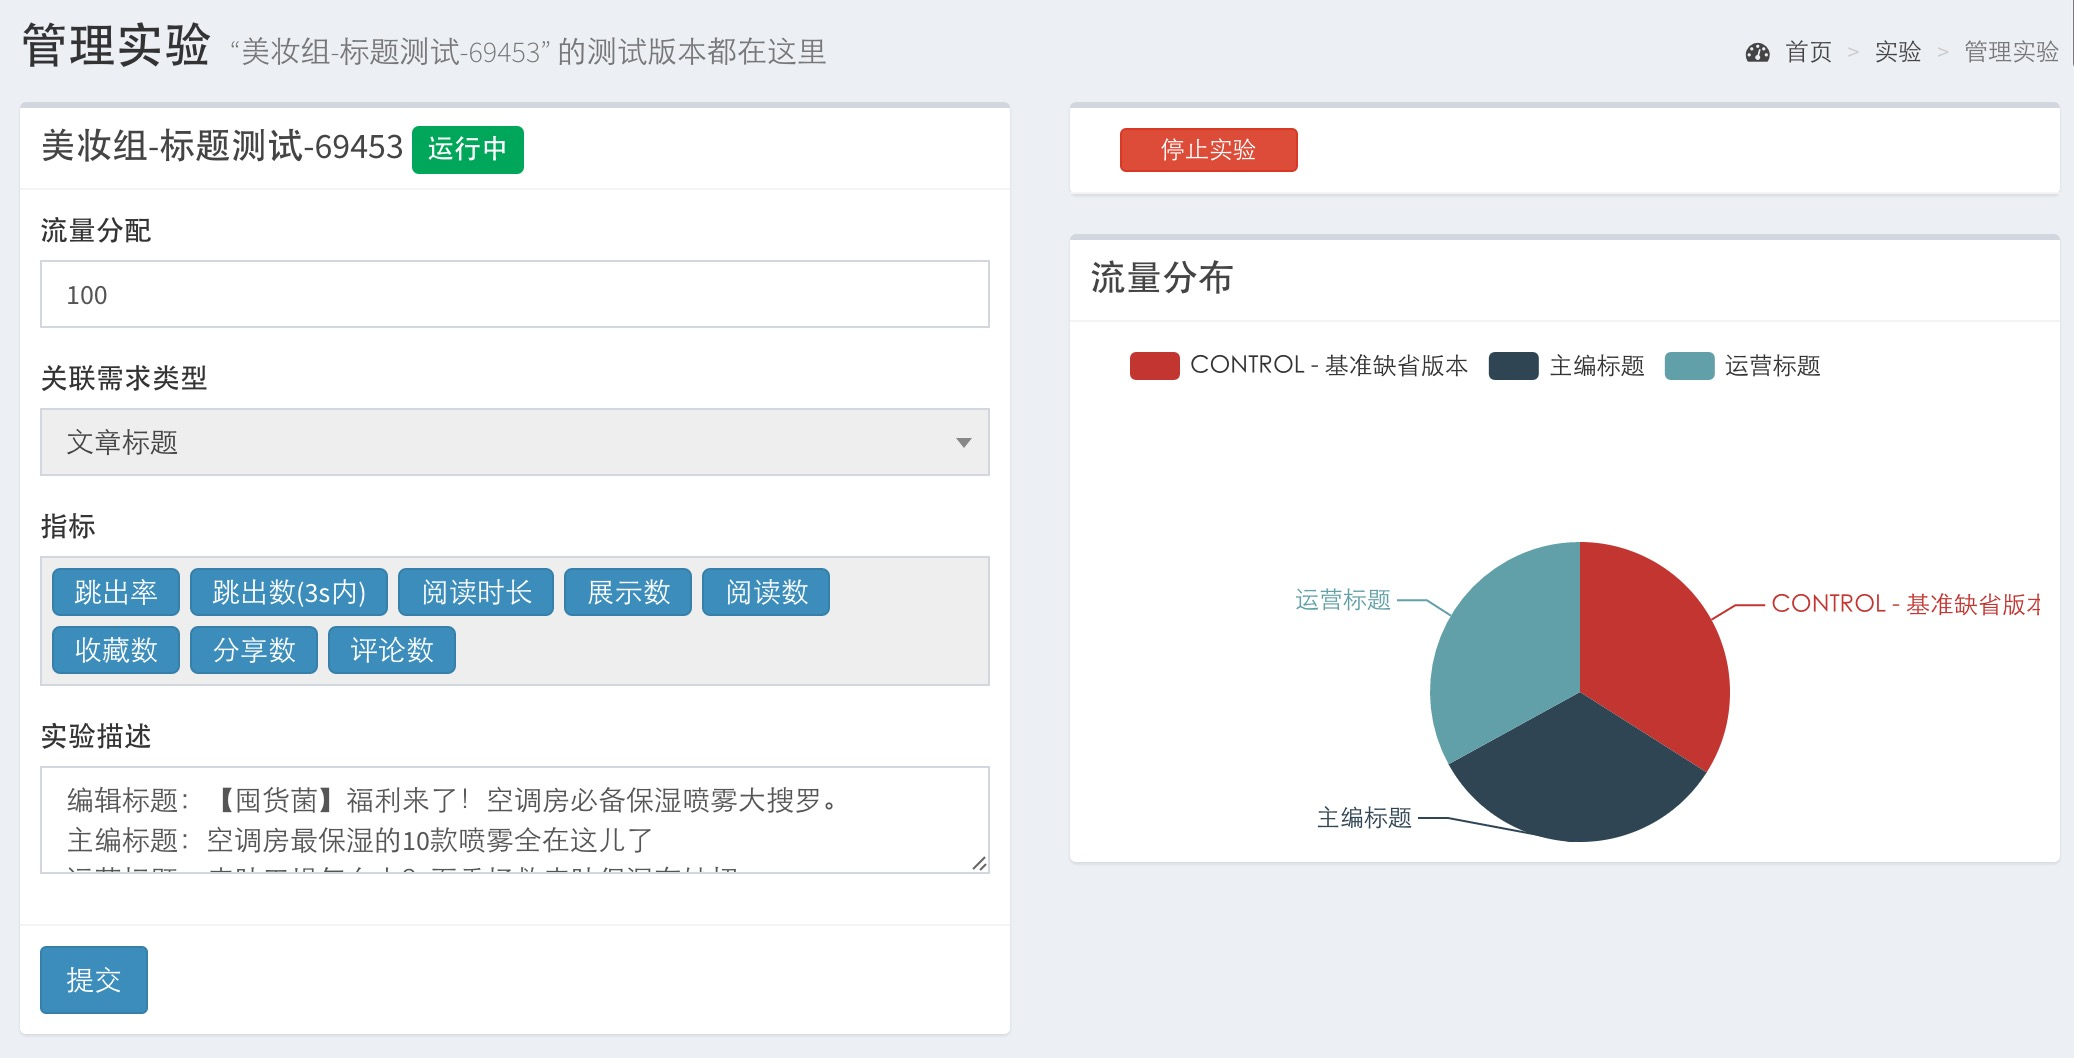
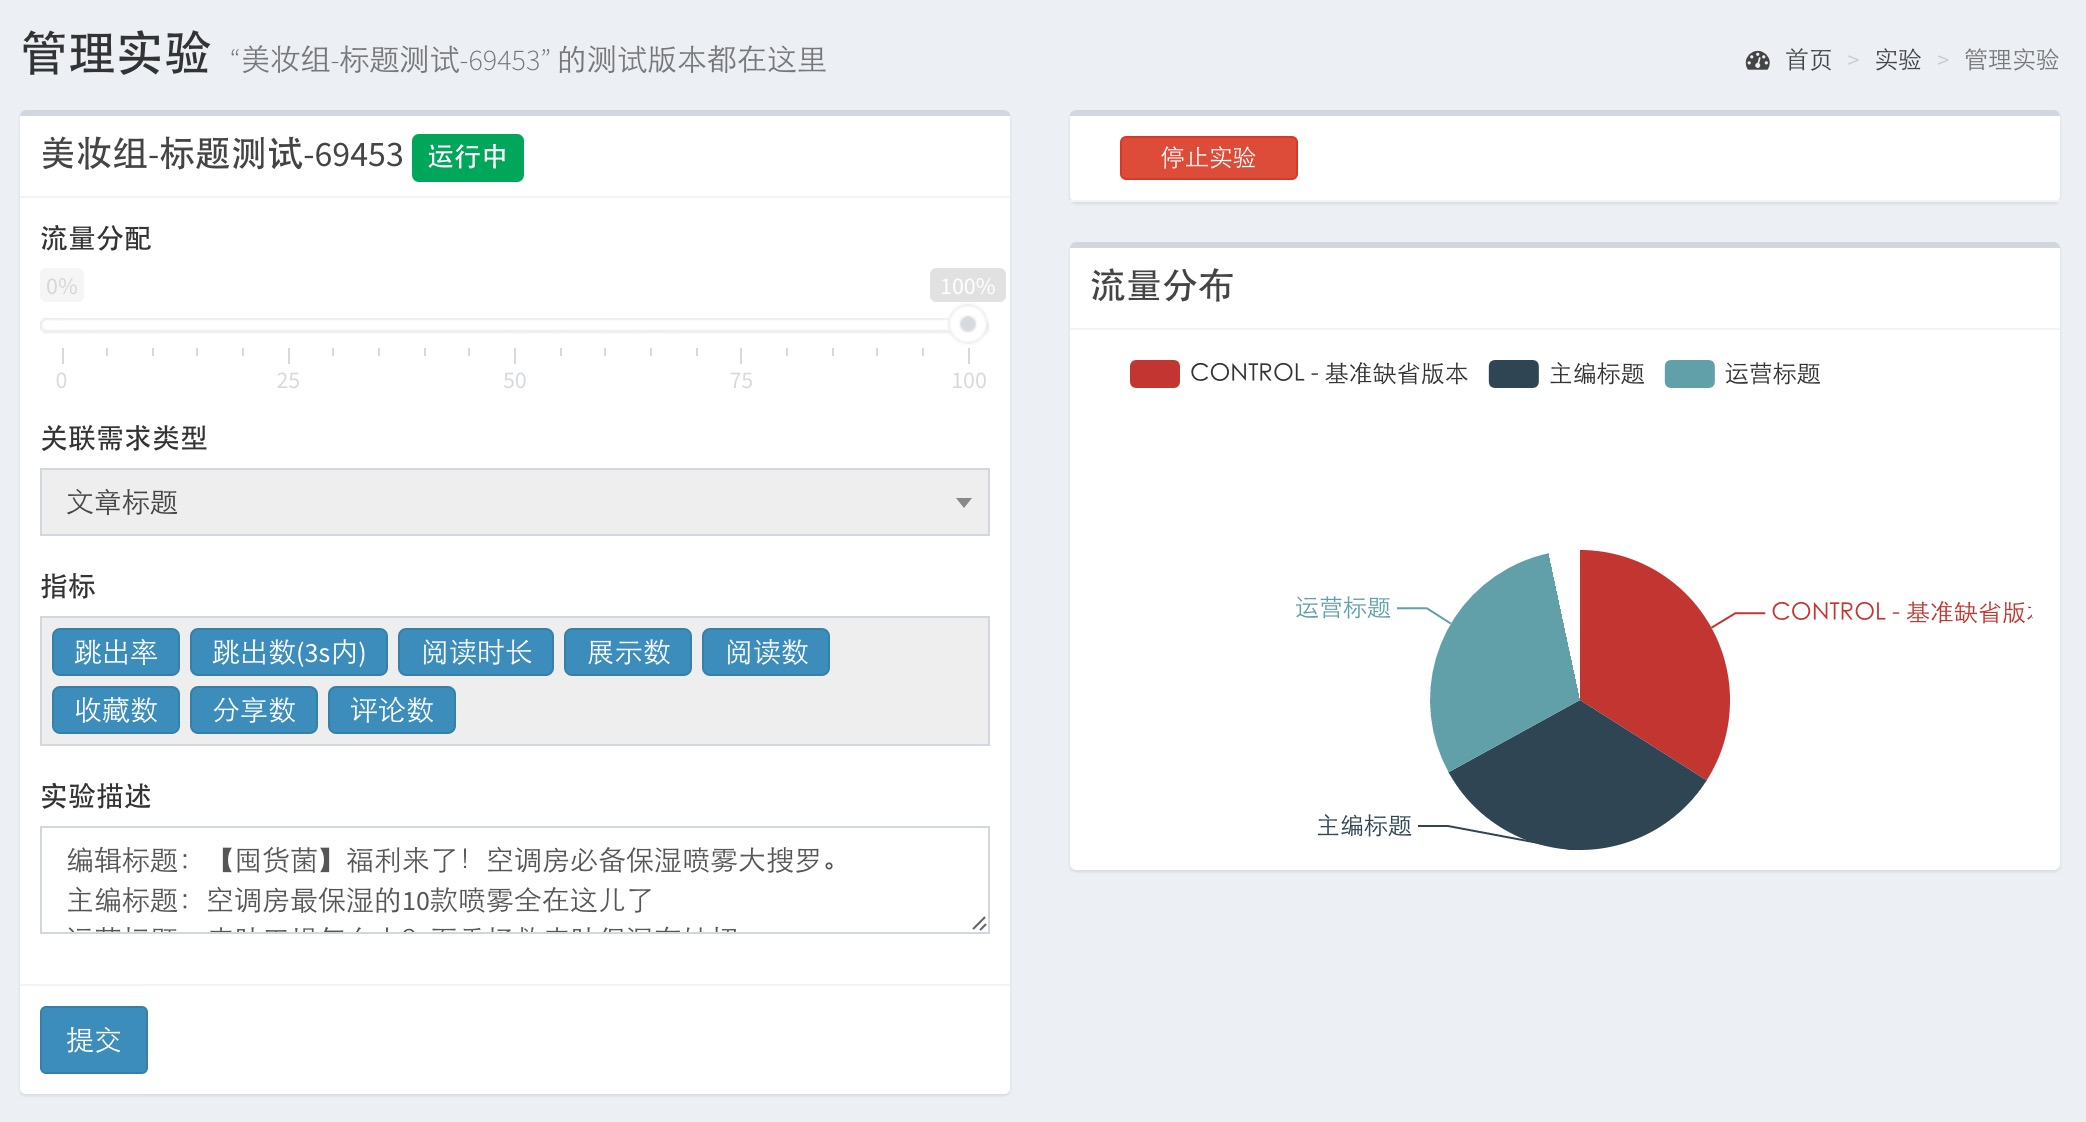
完善

diff --git a/cms/index.md b/cms/index.md
@@ -5,13 +5,20 @@
 ![](../_images/cms_1.png)
 
 ##添加试验
+* 目前每个试验流量是按照100%分配的，未来可能会划分独立的流量空间，在此流量空间中进行独立试验。
 ![](../_images/cms_2.png)
 
 ##试验信息管理
+* 只有点击“开始试验”才会进行实际的流量分配，并开始收集试验数据。
+* “开始试验”过程较慢需要2~5分钟划分流量
+* 实际文章的发布时间是以CMS为最高控制权
 ![](../_images/cms_5.png)
 
 ##添加试验版本
+* 给每个版本划分各自的流量
+* 任何未被分配的流量，都会被认为是默认对照Control组的流量
 ![](../_images/cms_3.png)
+
 
 ##试验版本
 ![](../_images/cms_6.png)
@@ -20,4 +27,10 @@
 ![](../_images/cms_4.png)
 
 ##查看试验数据图表
+* 数据指标是需要提前定义好的
+* 提供折线图展示
+* 导出CSV文件
+* 横轴时间区间缩放
+* 保持为图片
+* 可以按照时间范围检索数据
 ![](../_images/cms_7.png)
